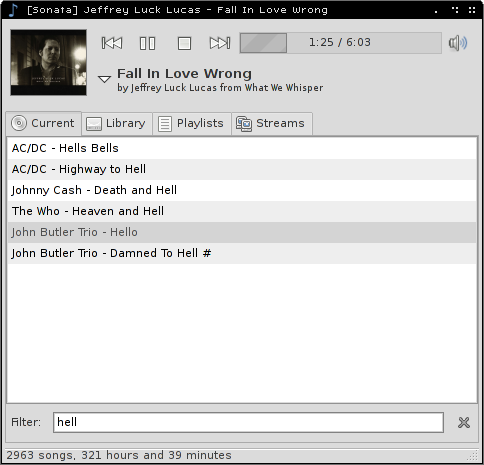
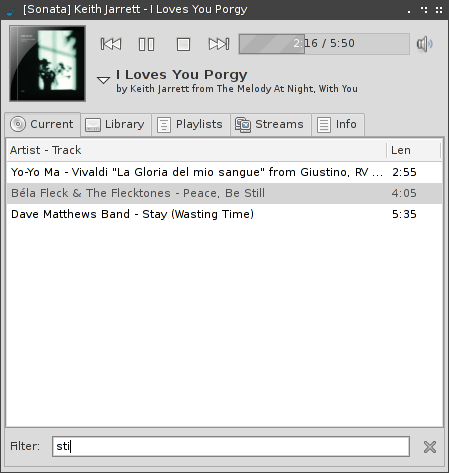
improve artwork searching for genre/artist library views; update website

diff --git a/website/changelog.html b/website/changelog.html
@@ -27,6 +27,35 @@
 
 		 <h2>Changelog</h2>
 		 
+		 	<p>April 3, 2008 (Version 1.5):<ul>
+			<li>Replace album view with genre view for library</li>
+			<li>Display covers for albums in artist/genre views</li>
+			<li>Add menu items and shortcuts for playing library items after add/replace</li>
+			<li>Allow setting artwork for streams</li>
+			<li>Optional stylized album art with cases (Aidan)</li>
+			<li>New, faster python mpd interface (jat)</li>
+			<li>--popup argument to popup song notification (requires D-Bus) (Oleg)</li>
+			<li>Show 'Untagged' artists/genres in their respective library views</li>
+			<li>Allow DND of cover art from a web browser (Артем)</li>
+			<li>Allow DND of music from a file manager into playlist (requires mpd 0.14)</li>
+			<li>Preserve column percentages for current tab across window resizing</li>
+			<li>Speed up mpd-related commandline arguments</li>
+			<li>Switch back to last tab on second cover art click</li>
+			<li>Retain selection in lists after removing items</li>
+			<li>Hidden config option to expand notebook tabs (tabs_expanded)</li>
+			<li>Set ServiceProxy cachedir for lyrics to work around ZSI bug</li>
+			<li>Add Estonian translation (Mihkel)</li>
+			<li>Bug: Fix multimedia keys for gnome 2.22</li>
+			<li>Bug: Fix artwork for artists/albums with "/" in them (e.g. AC/DC)</li>
+			<li>Bug: Fix egg trayicon with vertical system tray</li>
+			<li>Bug: Weird bug in library-view</li>
+			<li>Bug: Prevent failure to load if tab positions are saved as None</li>
+			<li>Bug: Fix non-ascii characters in files for non-utf8 filesystems (zap)</li>
+			<li>Bug: Prevent crash with certain locales like turkish (jat)</li>
+			<li>Bug: Using filter causes playlist to jump to the top</li>
+			<li>Bug: Fix AudioScrobblerQuery (kigurai)</li>
+			</ul>
+
 		 	<p>February 9, 2008 (Version 1.4.2):<ul>
 			<li>Add %D for disc tag in display formatting options</li>
 			<li>Better handling if no read permission (e.g. no/bad mpd password supplied)</li>

diff --git a/website/download.html b/website/download.html
@@ -27,7 +27,7 @@
 
 		 <h2>Download</h2>
 
-			<p>Sonata source code is available here:&nbsp;&nbsp;<a href="http://download.berlios.de/sonata/sonata-1.4.2.tar.gz">sonata-1.4.2.tar.gz</a>&nbsp;&nbsp;&nbsp;&nbsp;&nbsp;<a href="http://download.berlios.de/sonata/sonata-1.4.2.tar.bz2">sonata-1.4.2.tar.bz2</a><br/><br/>
+			<p>Sonata source code is available here:&nbsp;&nbsp;<a href="http://download.berlios.de/sonata/sonata-1.5.tar.gz">sonata-1.5.tar.gz</a>&nbsp;&nbsp;&nbsp;&nbsp;&nbsp;<a href="http://download.berlios.de/sonata/sonata-1.5.tar.bz2">sonata-1.5.tar.bz2</a><br/><br/>
 
 			&nbsp;&nbsp;&nbsp;&nbsp;&nbsp;Archlinux: pacman -S <a href="http://archlinux.org/packages/search/?q=sonata">sonata</a> (William Rea/James Rayner)<br/>
 			&nbsp;&nbsp;&nbsp;&nbsp;&nbsp;Crux: Pkgfile is <a href="http://borkware.net/crux/ports/sonata/">here</a> (Mark Rosenstand)<br/>
@@ -50,11 +50,12 @@
 
 			<p>PyGTK 2.6.0 or newer<br/>
 				GTK+ 2.6.0 or newer<br/>
+				python-mpd 0.2.0 or newer<br />
 				Python 2.5 or python-elementtree<br/>
 				MPD 0.12 or newer (optional)<br/>
 				gnome-python-extras or PyGTK 2.10.x for system tray support (optional)<br/>
 				taglib and tagpy for editing metadata (optional)<br/>
-				ZSI for lyrics support (optional)<br/>
+				ZSI 2.0 or newer for lyrics support (optional)<br/>
 				GCC (building only)<br/>
 				python-dev (on some distros; building only)
 

diff --git a/website/documentation.html b/website/documentation.html
@@ -65,8 +65,7 @@
 			given Sonata dependency is installed. For systemtray support, PyGTK 2.10 
 			or gnome-python-extras is required. For the ability to edit song tags, 
 			tagpy and taglib are required. For automatic fetching of song lyrics,
-			SOAPpy is required. For audioscrobbler support, Python 2.5 or
-			python-elementtree is required.</blockquote>
+			ZSI is required.</blockquote>
 			
 			<p><a name="faq_2">2</a>. How do I jump straight to certain tracks or search?
 			
@@ -84,7 +83,7 @@
 			<p><a name="faq_4">4</a>. How can I change the view of my library?
 			
 			<blockquote>By default, Sonata will present your music library in a Filesystem hierarchy
-			view. You can also choose to switch to Artist or Album views by clicking on the bottom-left
+			view. You can also choose to switch to Artist or Genre views by clicking on the bottom-left
 			icon that appears in the library tab.</blockquote>
 			
 			<p><a name="faq_5">5</a>. How does the cover art logic work?

diff --git a/website/screenshots.html b/website/screenshots.html
@@ -35,7 +35,7 @@
 						<td width="33%" align="right"><a href="images/sonata3.png"><img src="images/t_sonata3.jpg"></a><br/><i>Music library, searchbar.</i><br/><br/></td>
 					</tr>
 					<tr>
-						<td width="33%" align="right"><a href="images/sonata4.png"><img src="images/t_sonata4.jpg"></a><br/><i>Queue support.</i><br/><br/></td>
+						<td width="33%" align="right"><a href="images/sonata4.png"><img src="images/t_sonata4.jpg"></a><br/><i>Genre &amp; artist browsing.</i><br/><br/></td>
 						<td width="33%" align="right"><a href="images/sonata5.png"><img src="images/t_sonata5.jpg"></a><br/><i>Batch tag editing.</i><br/><br/></td>
 						<td width="33%" align="right"><a href="images/sonata6.png"><img src="images/t_sonata6.jpg"></a><br/><i>Alternative album art.</i><br/><br/></td>
 					</tr>

diff --git a/website/index.html b/website/index.html
@@ -32,7 +32,7 @@
 <div class="content">
 
 		 <h2>About</h2>
-		 <p>Sonata is an elegant GTK+ music client for the <a href="http://www.musicpd.org">Music Player Daemon (MPD)</a>.  The latest version is <a href="download.html">1.4.2</a>.</p>
+		 <p>Sonata is an elegant GTK+ music client for the <a href="http://www.musicpd.org">Music Player Daemon (MPD)</a>.  The latest version is <a href="download.html">1.5</a>.</p>
 		 <p>Sonata is licensed by the GPL and is <a href="http://www.gnu.org/philosophy/free-sw.html">free software</a>.  It has been forked from the unmaintained <a href="http://pygmy.berlios.de">Pygmy</a> project in order to fix bugs, introduce new features, and proceed down a different path.
 
 		 <h2>Features</h2>

diff --git a/sonata/main.py b/sonata/main.py
@@ -2395,16 +2395,18 @@ class Base:
 				songs = []
 				years = []
 				dirs = []
+				artists = []
 				for item in self.return_artist_items(self.lib_artist):
 					try:
 						albums.append(mpdh.get(item, 'album'))
 						years.append(mpdh.get(item, 'date', '9999').split('-')[0].zfill(4))
+						artists.append(mpdh.get(item, 'artist'))
 					except:
 						songs.append(item)
 					dirs.append(os.path.dirname(mpdh.get(item, 'file')))
-				(albums, years, dirs) = misc.remove_list_duplicates(albums, years, dirs, False)
+				(albums, years, artists, dirs) = misc.remove_list_duplicates(albums, years, artists, dirs, False)
 				for i in range(len(albums)):
-					coverfile = self.library_get_album_cover(dirs[i], self.lib_artist, albums[i])
+					coverfile = self.library_get_album_cover(dirs[i], artists[i], albums[i])
 					if years[i] == '9999':
 						bd += [('d' + years[i] + misc.lower_no_the(albums[i]), [coverfile, years[i] + albums[i], misc.escape_html(albums[i])])]
 					else:
@@ -2455,7 +2457,7 @@ class Base:
 		list = []
 		for item in self.client.list('genre'):
 			list.append(item)
-		(list, tmp, tmp2) = misc.remove_list_duplicates(list, case=False)
+		(list, tmp, tmp2, tmp3) = misc.remove_list_duplicates(list, case=False)
 		list.sort(locale.strcoll)
 		return list
 	
@@ -2501,14 +2503,14 @@ class Base:
 							list.append(mpdh.get(item, 'artist'))
 						elif mpdh.get(item, 'genre') == self.NOTAG:
 							list.append(mpdh.get(item, 'artist'))
-			(list, tmp, tmp2) = misc.remove_list_duplicates(list, case=False)
+			(list, tmp, tmp2, tmp3) = misc.remove_list_duplicates(list, case=False)
 			list.sort(locale.strcoll)
 			return list
 		else:
 			list = []
 			for item in self.client.list('artist'):
 				list.append(item)
-			(list, tmp, tmp2) = misc.remove_list_duplicates(list, case=False)
+			(list, tmp, tmp2, tmp3) = misc.remove_list_duplicates(list, case=False)
 			list.sort(locale.strcoll)
 			return list
 	
@@ -2895,7 +2897,7 @@ class Base:
 										albumtime = albumtime + int(mpdh.get(track, 'time'))
 									except:
 										pass
-							(year, tmp, tmp2) = misc.remove_list_duplicates(year, case=False)
+							(year, tmp, tmp2, tmp3) = misc.remove_list_duplicates(year, case=False)
 							artist = self.album_current_artist[1]
 							artist_use_link = False
 							if artist != _("Various Artists"):
@@ -3213,7 +3215,7 @@ class Base:
 				for item in self.return_genre_items(genre):
 					items.append(mpdh.get(item, 'file'))
 		# Make sure we don't have any EXACT duplicates:
-		(items, tmp, tmp2) = misc.remove_list_duplicates(items, case=True)
+		(items, tmp, tmp2, tmp3) = misc.remove_list_duplicates(items, case=True)
 		return items
 	
 	def on_add_item_play(self, widget):
@@ -4983,7 +4985,7 @@ class Base:
 					artists.append(mpdh.get(song, 'artist'))
 					if mpdh.get(self.songinfo, 'file') == mpdh.get(song, 'file'):
 						return_artist = mpdh.get(song, 'artist')
-		(artists, tmp, tmp2) = misc.remove_list_duplicates(artists, case=False)
+		(artists, tmp, tmp2, tmp3) = misc.remove_list_duplicates(artists, case=False)
 		if len(artists) > 3:
 			return_artist = _("Various Artists")
 		self.album_current_artist = [self.songinfo, return_artist]

diff --git a/sonata/misc.py b/sonata/misc.py
@@ -89,16 +89,18 @@ def link_markup(s, enclose_in_parentheses, small, linkcolor):
 	s = "<span color='" + color + "'>" + s + "</span>"
 	return s
 
-def remove_list_duplicates(inputlist, inputlist2=[], inputlist3=[], case=True):
+def remove_list_duplicates(inputlist, inputlist2=[], inputlist3=[], inputlist4=[], case=True):
 	# If inputlist2 is provided, keep it synced with inputlist.
 	# Note that this is only implemented if case=False.
 	# Also note that we do this manually instead of using list(set(x))
 	# so that the inputlist order is preserved.
 	sync2 = (len(inputlist2) > 0)
 	sync3 = (len(inputlist3) > 0)
+	sync4 = (len(inputlist4) > 0)
 	outputlist = []
 	outputlist2 = []
 	outputlist3 = []
+	outputlist4 = []
 	for i in range(len(inputlist)):
 		dup = False
 		# Search outputlist from the end, since the inputlist is typically in
@@ -128,7 +130,9 @@ def remove_list_duplicates(inputlist, inputlist2=[], inputlist3=[], case=True):
 				outputlist2.append(inputlist2[i])
 			if sync3:
 				outputlist3.append(inputlist3[i])
-	return (outputlist, outputlist2, outputlist3)
+			if sync4:
+				outputlist4.append(inputlist4[i])
+	return (outputlist, outputlist2, outputlist3, outputlist4)
 
 the_re = re.compile('^the ')
 def lower_no_the(s):
